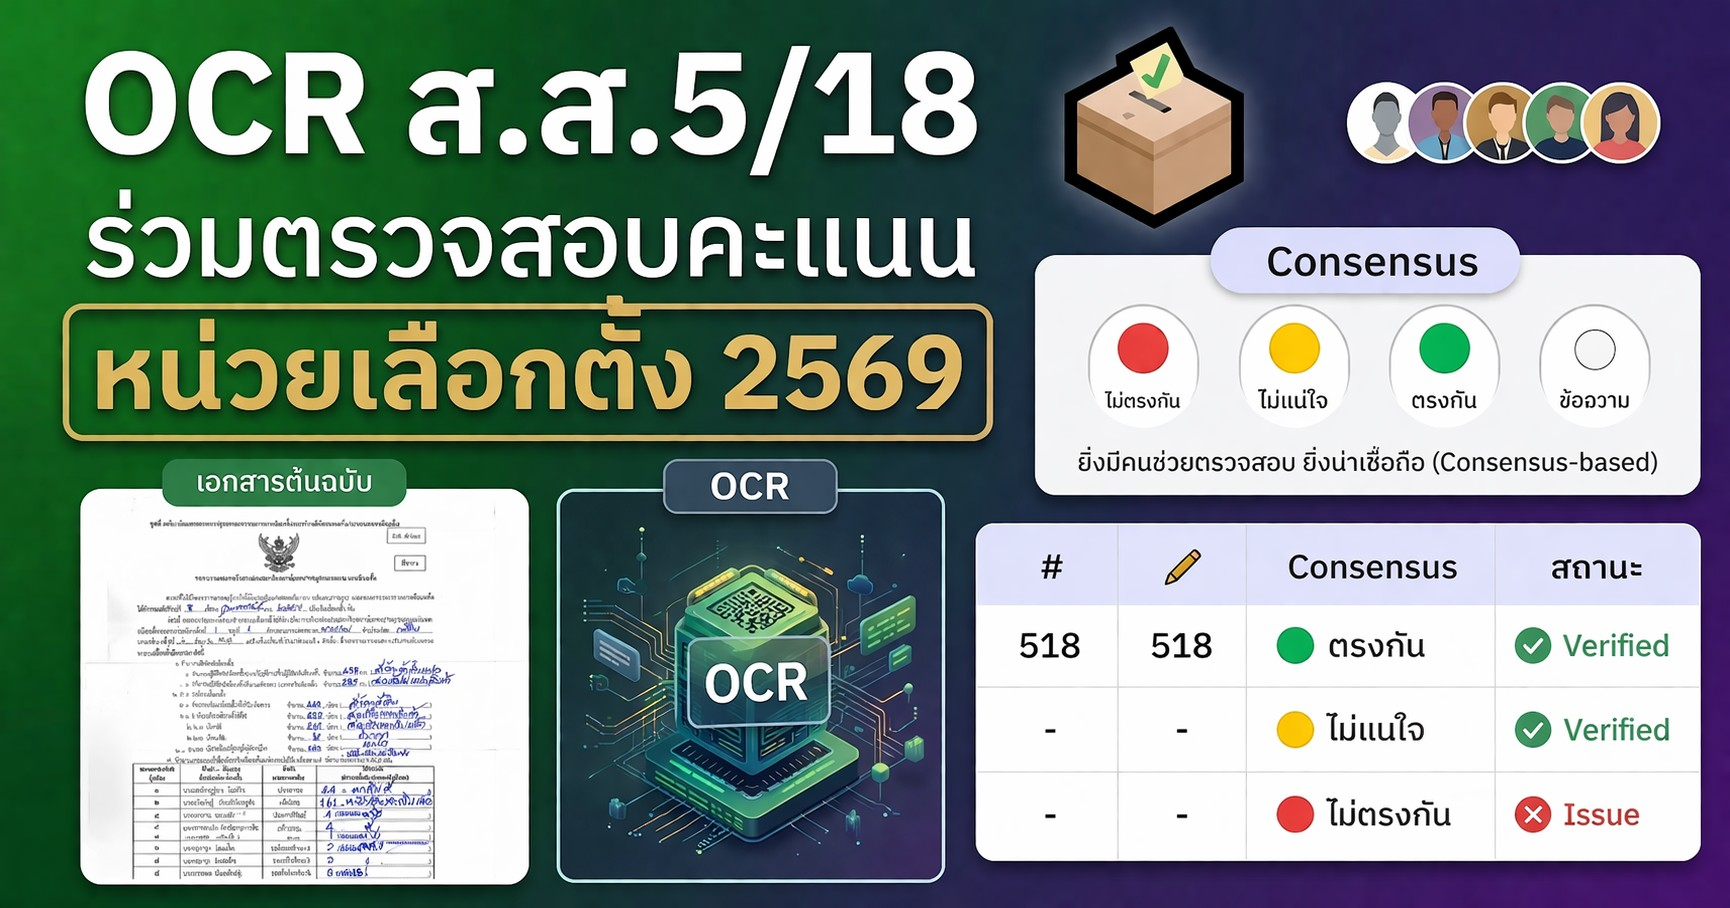
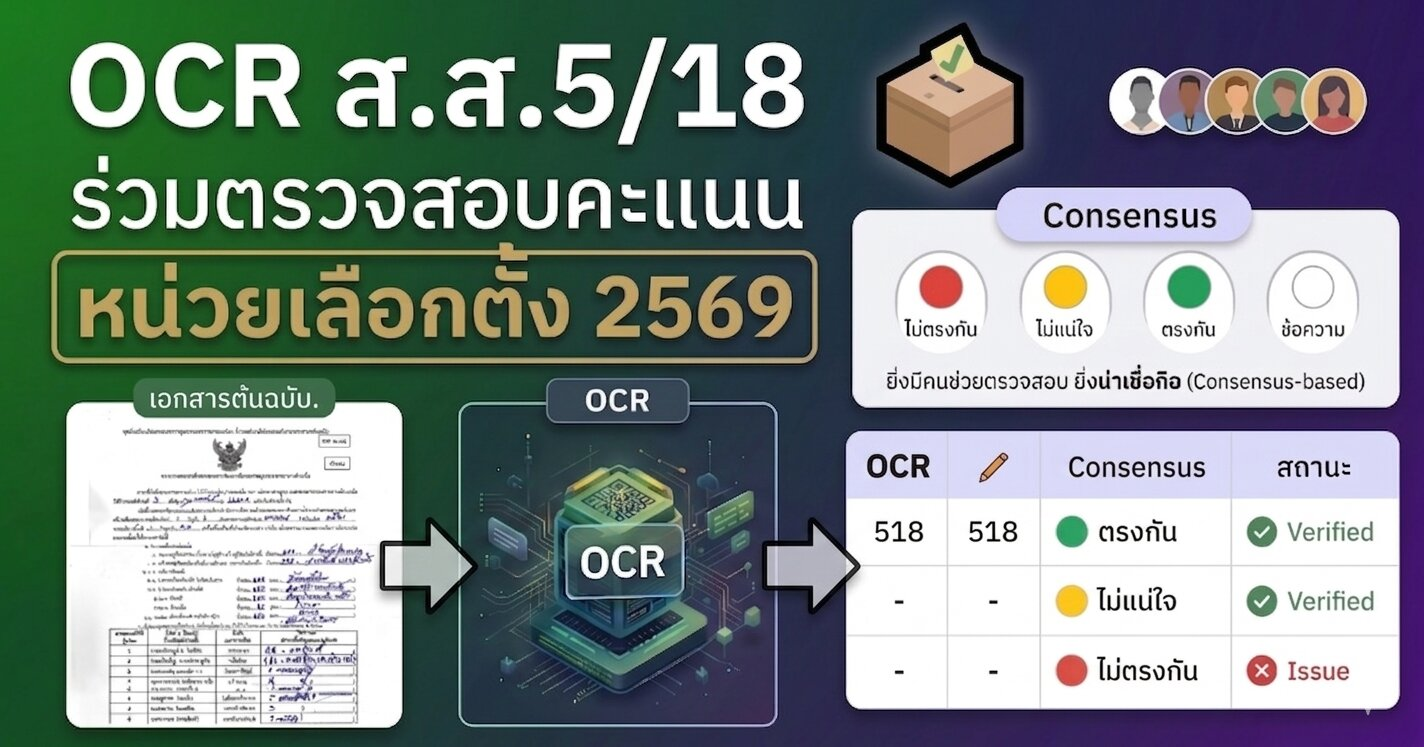
feat: update featured OG image with improved OR.jpg (1424x747)

diff --git a/review-app/index.html b/review-app/index.html
@@ -11,8 +11,8 @@
     <meta property="og:title" content="ร่วมตรวจสอบผลเลือกตั้ง 2569 — Election OCR Review" />
     <meta property="og:description" content="ระบบตรวจสอบความถูกต้องของผลการนับคะแนนเลือกตั้ง สส. 2569 ด้วยอาสาสมัครภาคประชาชน — ร่วมตรวจ ร่วมยืนยัน โปร่งใสทุกหน่วย" />
     <meta property="og:image" content="https://narasakp.github.io/election-verification/og-image.jpg" />
-    <meta property="og:image:width" content="1730" />
-    <meta property="og:image:height" content="908" />
+    <meta property="og:image:width" content="1424" />
+    <meta property="og:image:height" content="747" />
     <meta property="og:url" content="https://narasakp.github.io/election-verification/" />
     <meta property="og:locale" content="th_TH" />
     <meta property="og:site_name" content="Election OCR Review" />
